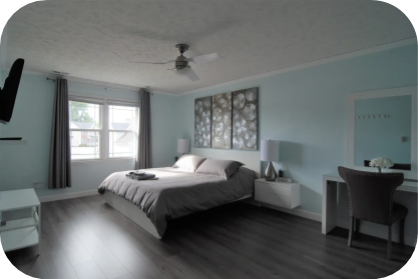
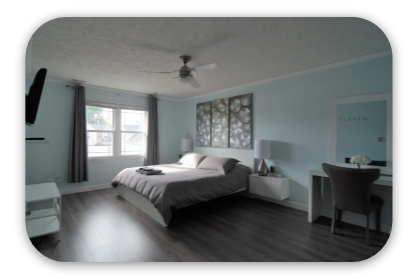
Dropshadow

diff --git a/stylesheets/stylesheet.css b/stylesheets/stylesheet.css
@@ -48,7 +48,7 @@ p, li {
   display: block;
   margin-left: auto;
   margin-right: auto;
-  width:50%;
+  width:75%;
 }
 
 }
